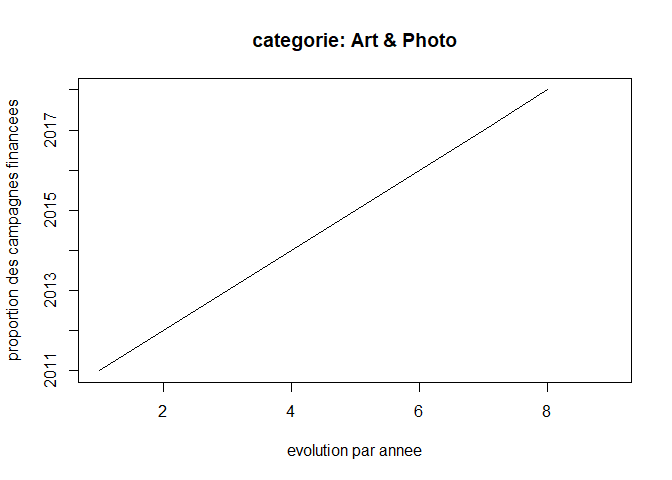
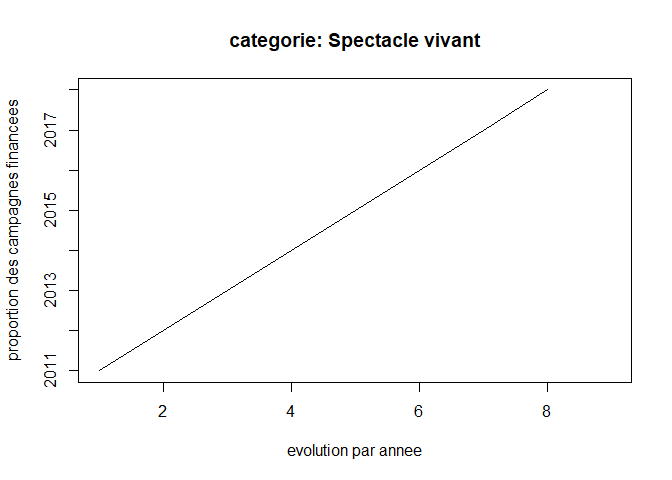
masque code

Changed region(s): [[0.3438, 0.0625, 0.7188, 0.125]]

diff --git a/README.md b/README.md
@@ -4,42 +4,6 @@ Modou
 22 avril 2020
 
 ``` r
-setwd("~/MSS/projet d'expertise/projet1/ndiayemodou")
-Donnees<-read.csv("data_ulule_2019-1.csv",header = TRUE,sep = ";")
-
-
-library(readr)
-library(dplyr)
-```
-
-    ## 
-    ## Attaching package: 'dplyr'
-
-    ## The following objects are masked from 'package:stats':
-    ## 
-    ##     filter, lag
-
-    ## The following objects are masked from 'package:base':
-    ## 
-    ##     intersect, setdiff, setequal, union
-
-``` r
-library(ggplot2)
-library(lubridate)
-```
-
-    ## 
-    ## Attaching package: 'lubridate'
-
-    ## The following object is masked from 'package:base':
-    ## 
-    ##     date
-
-``` r
-attach(Donnees)
-```
-
-``` r
 data<-Donnees[order(country),] %>%
   filter(is_cancelled==FALSE)
 
@@ -153,7 +117,7 @@ plot(as.integer( donnee[donnee$category=="Musique", "annee"]), donnee[donnee$cat
 ![](README_files/figure-markdown_github/unnamed-chunk-5-1.png)
 
 ``` r
-plot(as.integer( donnee[donnee$category=="Film et vidéo", "annee"]), donnee[donnee$category=="Film et vidéo", "proportion"],main="categorie: Art & Photo",xlab="evolution par annee", ylab="proportion des campagnes financees",type = "l")
+plot(as.integer( donnee[donnee$category=="Spectacle vivant", "annee"]), donnee[donnee$category=="Spectacle vivant", "proportion"],main="categorie: Spectacle vivant",xlab="evolution par annee", ylab="proportion des campagnes financees",type = "l")
 ```
 
 ![](README_files/figure-markdown_github/unnamed-chunk-6-1.png)
